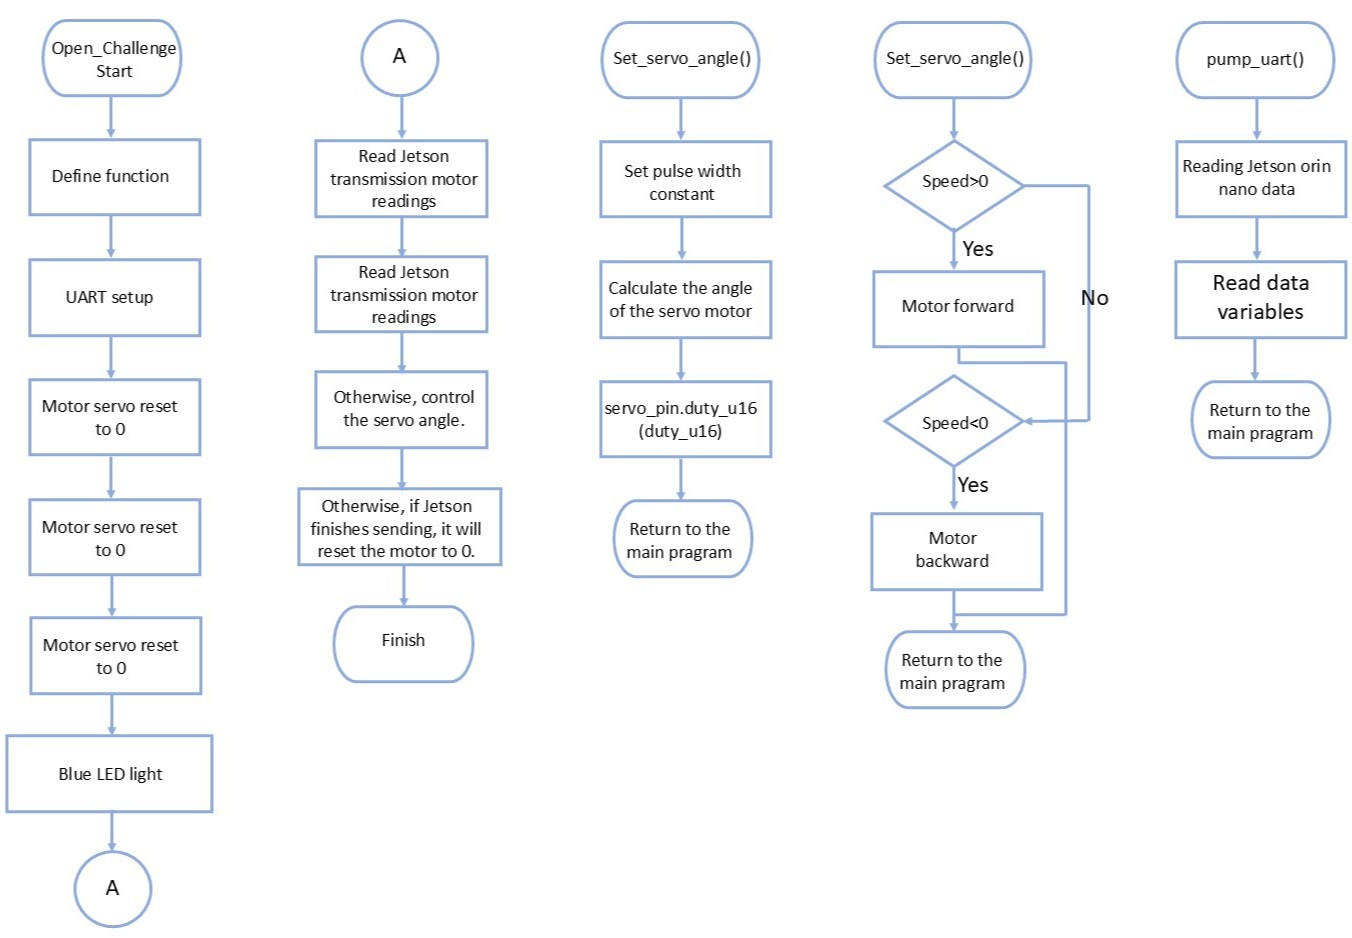
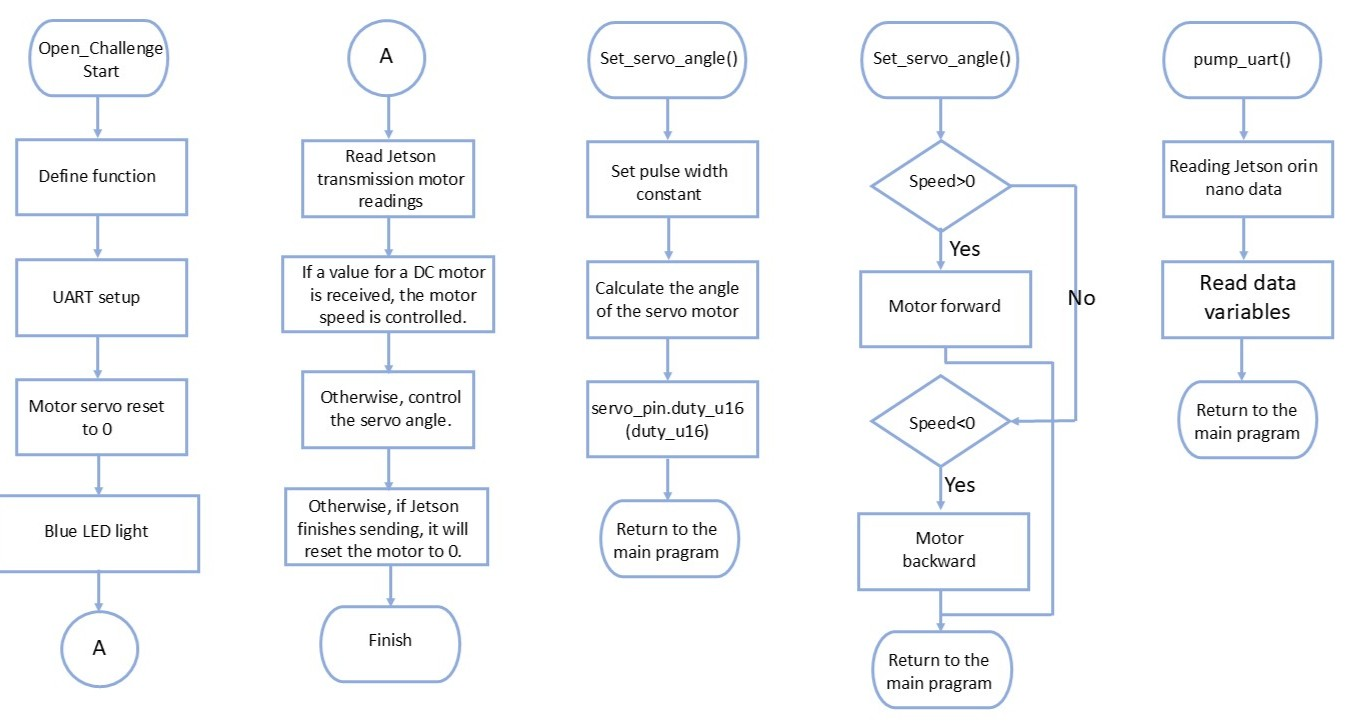
1106

diff --git a/src/Programming/Open_Challenge/README.md b/src/Programming/Open_Challenge/README.md
@@ -85,6 +85,7 @@ from functions_jetson import *
 
    - ##### Jetson Orin Nano Controller Main Program Flowchart - Jetson Orin Nano控制器主程式流程圖
      ![flowchart_open](./img/open_challange_Jetson_nano.jpg)
+     ![flowchart_open](./img/Chinese%20Qualifying%20Tournament%20Operation%20Flowchart.jpg)
 
  - ### Raspberry Pi Pico W Open Challenge Code Overview - 樹莓派 Pico W 公開挑戰代碼概述
    - #### Raspberry Pi Pico W Core Library / Module Program Plan for the Open Challenge - 樹莓派 Pico W 庫公開挑戰程式碼程序
@@ -110,6 +111,7 @@ from functions_jetson import *
 
       - ##### Program Operation flowchart of the Raspberry Pi Pico W controller - 樹莓派 Pico W 控制器程式運作流程圖
         ![flowchart_open](./img/open_challange_Pico.jpg)
+        ![flowchart_open](./img/Chinese%20pico%20operation%20flowchart.jpg)
         
           __set_servo_angle():__<br>
           - 計算並轉換±180度的角度值到伺服馬達所需的PWM佔空比範圍（0到65535），並將其輸出到前輪伺服馬達。
